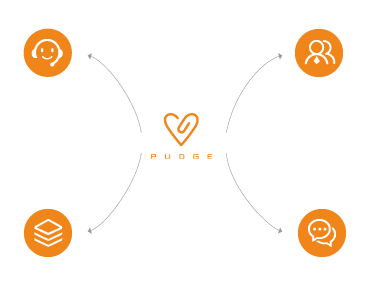
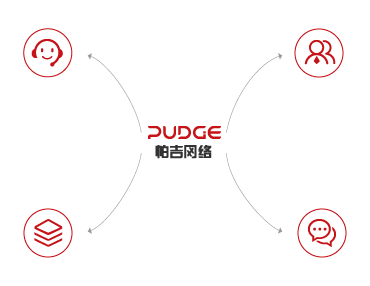
更改了样式以及颜色

diff --git a/1/css/index.css b/1/css/index.css
@@ -24,7 +24,7 @@
 	margin-left: 50px;
 	display: inline-block;
 	margin-top: 14px;
-	background: #fa9f44;
+	background: #c51317;
 	font-size: 16px;
 	color: #FFFFFF;
 	text-align: center;
@@ -33,7 +33,7 @@
 	text-decoration: none;
 }
 .slide .textBox a:hover {
-	background: #c51316;
+	background: #bb1215;
 }
 /*客户*/
 .customer  {
@@ -112,16 +112,18 @@
 }
 .advantage .adv_bd .adv_item {
 	margin-top: 40px;
-	background: #c51316;
+	/*background: #c51316;*/
+	border: 1px solid #c51316;
 	border-radius: 4px;
 	color: #FFFFFF;
 	text-align: center;
 	padding: 40px 28px;
 	/*transition: all 1s ease-in-out;*/
 }
-.advantage .adv_bd .adv_item h4 {
+.advantage .adv_bd .adv_item h3 {
 	margin: 40px 0 20px 0;
 	font: lighter 24px/24px "微软雅黑";
+	color: #333;
 }
 .advantage .adv_bd .adv_item img {
 	transition: all 1s ease-in-out;
@@ -132,6 +134,7 @@
 }
 .advantage .adv_bd .adv_item p {
 	font: lighter 14px/18px "微软雅黑";
+	color: #666666;
 }
 
 /*我们的产品*/
@@ -210,7 +213,8 @@
 	display: inline-block;
 	/*background: #fa9f44;*/
 	font-size: 16px;
-	color: #fa9f44;
+	color: #c51317;
+	padding-bottom: 2px;
 	font-weight: lighter;
 	/*text-decoration: underline;*/
 	/*text-align: center;*/

diff --git a/1/css/common.css b/1/css/common.css
@@ -38,12 +38,14 @@ h5 {
 	zoom: 1;
 }
 
-
+.caret {
+	margin-left: 4px;
+}
 .navbar {
 	margin-bottom: 0;
 }
 .navbar-brand {
-	padding: 5px 10px;
+	padding: 14px 10px;
 	height: 70px
 }
 .navbar-toggle {
@@ -60,11 +62,17 @@ h5 {
 .navbar-nav > li > a {
 	font-size: 18px;
 	line-height: 40px;
+	font-weight: normal;
 }
 .nav > li > a {
 	padding-left: 25px;
 	padding-right: 25px;
 	
+}
+.navbar-nav > li > a  {
+	padding-top: 25px;
+	padding-bottom: 25px;
+
 }
 .navbar-default .navbar-nav > li > a {
 	color: #222222;
@@ -294,7 +302,7 @@ aside .asideBox a:hover {
 	color: #333333;
 } 
 .bread .breadcrumb li a {
-	color: #ee7400;
+	color: #c51317;
 }
 .content .asideMenu {
 	position: relative;
@@ -324,8 +332,8 @@ aside .asideBox a:hover {
 }
 .content .asideMenu ul li a:hover,
 .content .asideMenu ul li a.active {
-	color: #ee7400;
-	border-left: 2px solid #ee7400;
+	color: #c51317;
+	border-left: 2px solid #c51317;
 	text-decoration: none;
 	padding-left: 13px;
 }
@@ -352,7 +360,7 @@ aside .asideBox a:hover {
 	margin-top: 24px;
 }
 .content .paper p span {
-	color: #ee7400;
+	color: #c51317;
 	font-weight: bold;
 }
 .content .paper dt {

diff --git a/1/customer.html b/1/customer.html
@@ -298,7 +298,7 @@
 							</div>
 							<div class="col-xs-12 col-sm-6 col-md-3 col-lg-3 customerLogo">
 								<img src="img/customer/xierwei.jpg" alt="希尔威金属矿业有限公司" class="img-responsive center-block img1" />
-								<span>希尔威金属矿业有限公司</span>
+								<span style="font-size: 14px;">希尔威金属矿业有限公司</span>
 							</div>
 							<div class="col-xs-12 col-sm-6 col-md-3 col-lg-3 customerLogo">
 								<img src="img/customer/baijia.jpg" alt="百佳贸易服务有限公司" class="img-responsive center-block img1" />

diff --git a/1/css/growHistory.css b/1/css/growHistory.css
@@ -14,7 +14,7 @@
 	margin: 0 0 10px 93px;
     font-size: 24px;
     font-family: Georgia;
-    color: #ee7400;
+    color: #c51317;
     padding-left: 25px;
     background: url(../img/jian.png) 0 -45px no-repeat;
     height: 38px;
